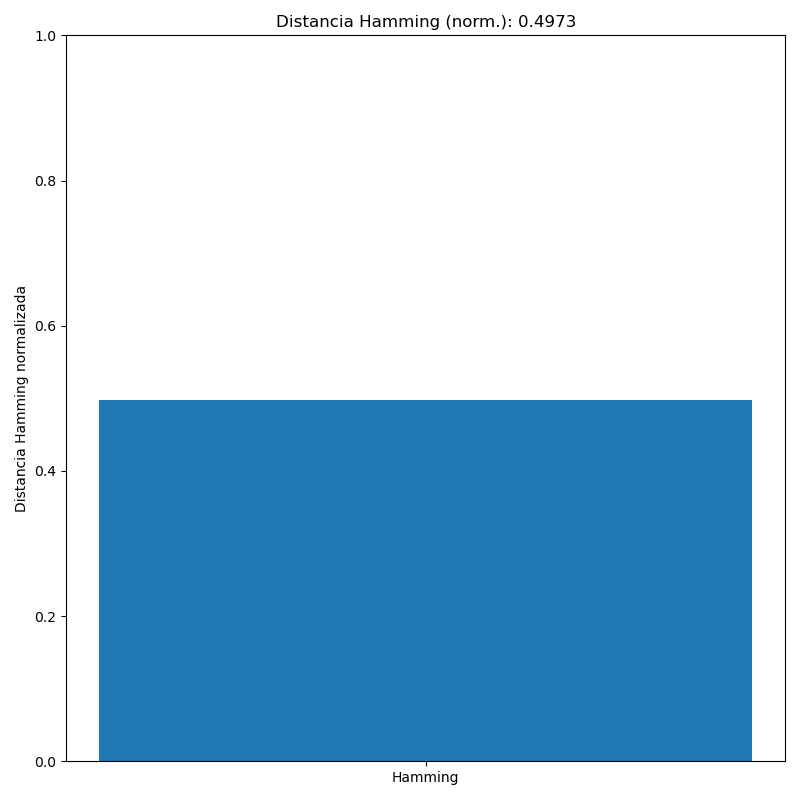
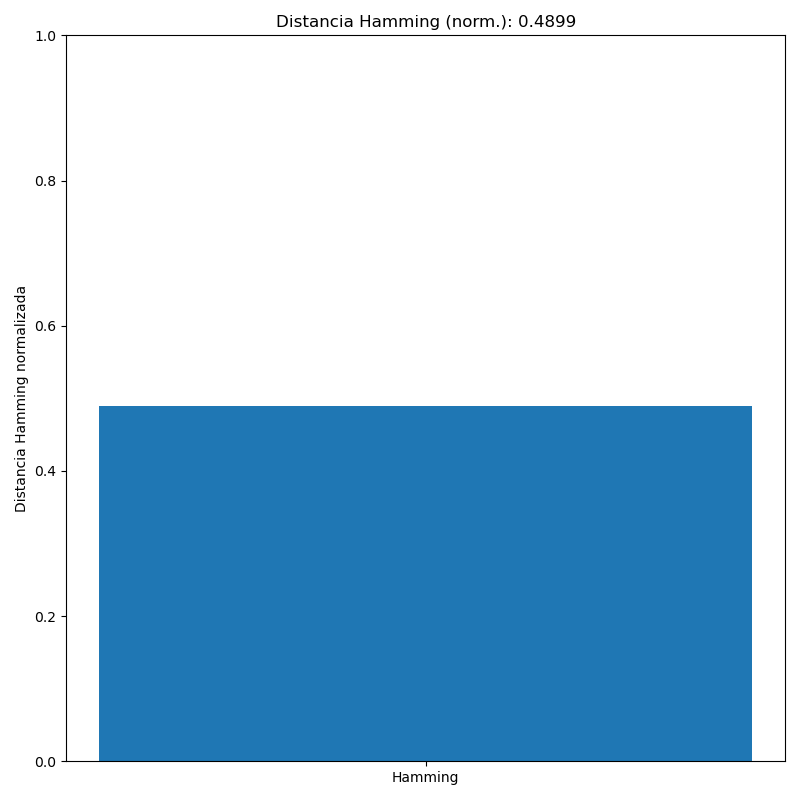
05122025

Changed region(s): [[0.125, 0.5, 0.9375, 0.5312], [0.6875, 0.0, 0.7188, 0.0312]]

diff --git a/Maestro_TLS Keystream.py b/Maestro_TLS Keystream.py
@@ -41,7 +41,7 @@ LOGISTIC_PARAMS = {
 
 # ========== RUTAS Y ARCHIVOS ==========
 CARPETA_CIFRADO = Path("CifradoTLS_KEYSTREAM")
-IMAGEN_ENTRADA = Path("Prueba.jpg")
+IMAGEN_ENTRADA = Path("Prueba2.jpg")
 RUTA_IMAGEN_CIFRADA = CARPETA_CIFRADO / "ImagenCifrada_TLS.png"
 RUTA_TIMINGS = CARPETA_CIFRADO / "tiempos_procesos.csv"
 RUTA_DISPERSION = CARPETA_CIFRADO / "diagrama_dispersion.png"
@@ -216,8 +216,8 @@ def aplicar_confusion(difusion, vector_logistico, nmax, rosslerParams):
         t_span = t_span,
         t_eval = t_eval,
         method = 'RK45',
-        rtol = 1e-8,
-        atol = 1e-8
+        rtol = 1e-5,
+        atol = 1e-5
     )
     t_fin_rossler = time.perf_counter()
     tiempo_rossler = t_fin_rossler - t_inicio_rossler
@@ -379,7 +379,6 @@ def graficar_hamming(imagen, vector_cifrado, ancho, alto):
     plt.tight_layout()
     plt.savefig(str(RUTA_HAMMING))
     print(f"[GRAFICA] Hamming guardada en {RUTA_HAMMING}")
-
 
 def registrar_tiempos(tiempo_difusion, tiempo_rossler, tiempo_confusion, tiempo_mqtt, tiempo_programa):
     """

diff --git a/Maestro_ControlPD.py b/Maestro_ControlPD.py
@@ -11,7 +11,7 @@ from scipy.integrate import solve_ivp
 from PIL import Image
 
 # Configuracion mqtt
-BROKER = "192.168.0.55"
+BROKER = "raspberrypiJED.local"
 PORT = 8883
 QOS = 1
 USERNAME = "usuario1"
